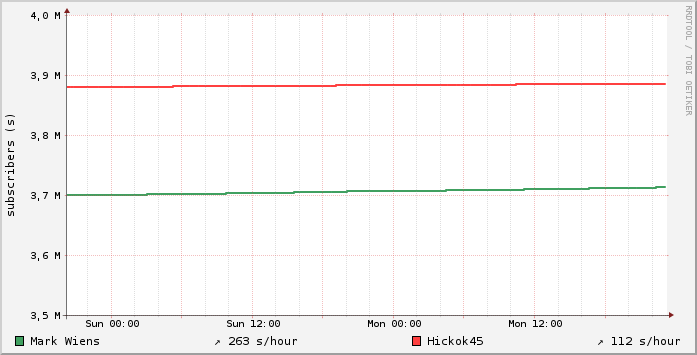
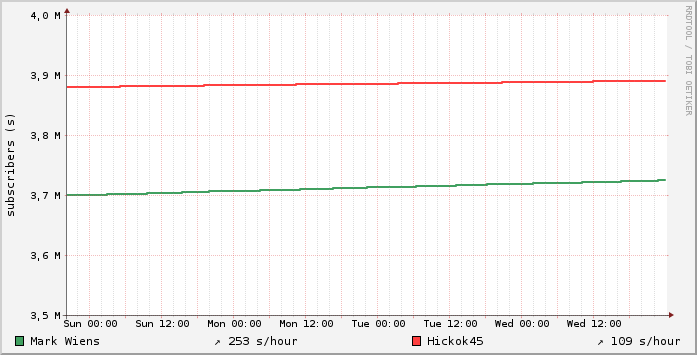
Updated graph guns vs food.

diff --git a/README.md b/README.md
@@ -39,7 +39,7 @@ The script "[bald-karl](https://raw.githubusercontent.com/nkoster/yt-subscribers
 
 In the script "[mark-hick](https://raw.githubusercontent.com/nkoster/yt-subscribers/master/mark-hick)", I'm comparing food against weapons... 😱
 
-Graph from Sat Feb 2 20:10:02 CET 2019 till Mon Feb 4 23:10:02 CET 2019:
+Graph from Sat Feb 2 20:10:02 CET 2019 till Mon Wed Feb 6 23:55:02 CET 2019:
 
 ![Mark Wiens and Hickok45](https://raw.githubusercontent.com/nkoster/yt-subscribers/master/mark-hick.png "Mark Wiens and Hickok45")
 
